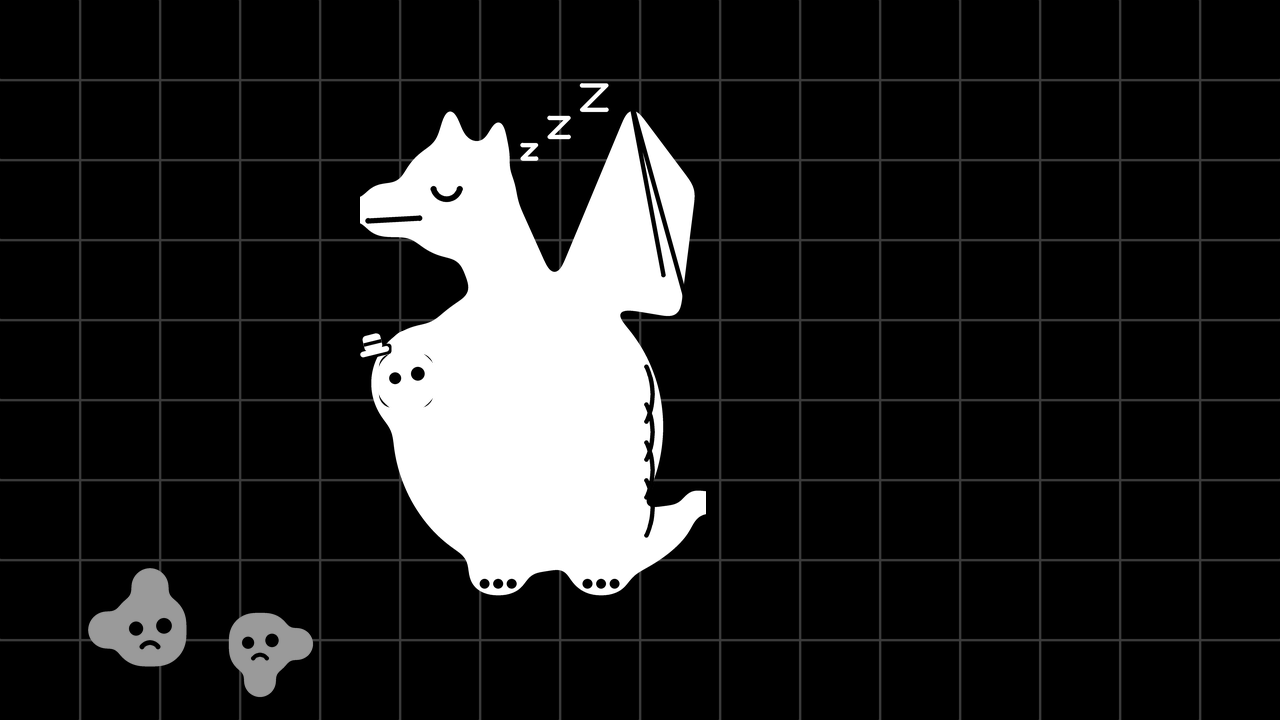
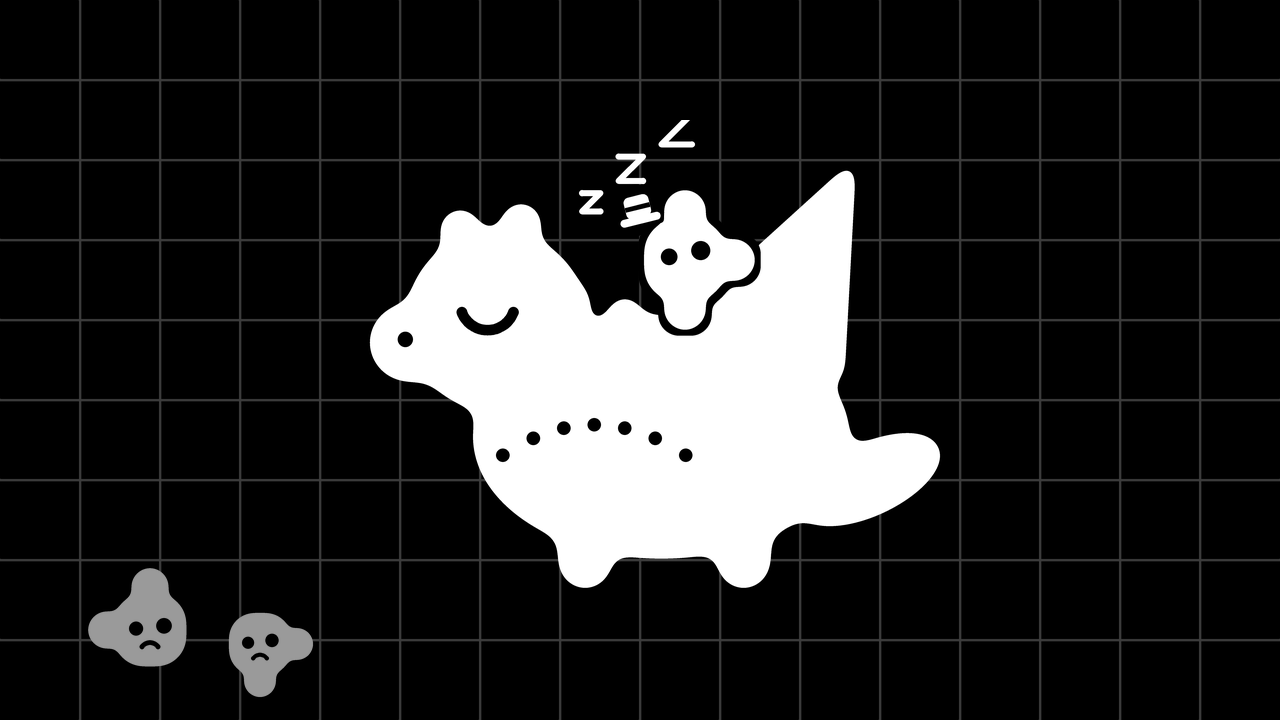
Small fix added

Changed region(s): [[0.2812, 0.0917, 0.75, 0.825]]

diff --git a/Tools/art_blob.py b/Tools/art_blob.py
@@ -204,27 +204,30 @@ def shard_img(px, i):
 
 # ---------------------------------------------------------------- dragon (128x192 tasarim uzayi, k kat)
 def dragon_img(kind, k=2.0, rider=None, hole=True):
-    """Ejderha omzunun uzerinden sola (oyuncuya) bakar; govdesi saga donuk, sirtindaki eyer sol kenarda (y 96..128).
-    rider: eyere oturacak RGBA (None = bos). hole: eyer yuvasi (siyah delik) cizilsin mi."""
+    """Ejderha 3/4 arkadan gorunur: govdesi saga donuk, SIRTI sola (oyuncuya) bakar, kafasi omzunun uzerinden
+    sola donmustur (agiz sol ustte, ates o yone cikar). Eyer sirtta, sol kenarda (y 96..128): siyah yuva + govdeyi
+    saran kolan. Kanat eyerin arkasindan sag uste acilir, sirt dikenleri boyun boyunca sol kenarda.
+    rider: eyere oturacak RGBA (sirt cizgisinin ustune biner). hole: eyer yuvasi cizilsin mi."""
     w, h = int(128 * k), int(192 * k)
     def T(x, y): return (x * k, y * k)
     body = Ink(w, h)
     body.ellipse(*T(62, 128), 50 * k, 54 * k)                 # govde
     body.circle(*T(26, 112), 22 * k)                          # sirt / eyer tumsegi (sol kenara tasar)
     body.poly([T(44, 86), T(74, 80), T(56, 40), T(30, 48)])   # boyun
-    body.circle(*T(36, 44), 22 * k)                           # kafa
+    body.circle(*T(36, 44), 22 * k)                           # kafa (omzunun uzerinden bakar)
     body.rrect(*T(0, 38), *T(30, 58), 9 * k)                  # burun (agiz sol kenarda)
     body.poly([T(27, 27), T(33, 6), T(41, 27)]); body.poly([T(43, 29), T(52, 10), T(56, 31)])   # boynuzlar
-    body.poly([T(70, 80), T(100, 8), T(124, 40), T(118, 88)]) # kanat (eyerin sag ustunde)
+    body.poly([T(40, 98), T(72, 10), T(120, 40), T(104, 98)]) # kanat: eyerin arkasindan sag uste
     body.ellipse(*T(100, 172), 26 * k, 10 * k, rot=-28)       # kuyruk
     body.circle(*T(124, 156), 5 * k)
     body.rrect(*T(40, 158), *T(62, 190), 8 * k); body.rrect(*T(78, 158), *T(100, 190), 8 * k)   # bacaklar
-    for cx, cy in ((34, 94), (44, 86), (58, 80)): body.circle(cx * k, cy * k, 5 * k)             # sirt dikenleri
+    for cx, cy in ((28, 70), (36, 59), (45, 49), (16, 134), (12, 148)): body.circle(cx * k, cy * k, 5 * k)   # sirt dikenleri (boyun + eyer alti)
     body.goo(2.6 * k)
     ink = Ink(w, h)
-    if hole: ink.rrect(*T(7, 101), *T(27, 121), 5 * k)         # eyer yuvasi
-    for x0, y0, x1, y1 in ((100, 8, 112, 72), (100, 8, 120, 80)): ink.line([T(x0, y0), T(x1, y1)], 1.6 * k)   # kanat kemikleri
-    for yy in (116, 130, 144, 158): ink.arc(*T(84, yy), 24 * k, -25, 25, 1.6 * k)                               # karin plakalari
+    ink.line([T(4, 118), T(60, 126), T(108, 112)], 3.2 * k)   # eyer kolani: govdeyi sarar
+    if hole and rider is None: ink.rrect(*T(7, 101), *T(27, 121), 5 * k)   # eyer yuvasi (bos eyer)
+    for x0, y0, x1, y1 in ((72, 10, 92, 90), (72, 10, 104, 84)): ink.line([T(x0, y0), T(x1, y1)], 1.6 * k)   # kanat kemikleri
+    for yy in (138, 152): ink.arc(*T(84, yy), 24 * k, -25, 25, 1.6 * k)                                      # karin plakalari (sag: on taraf)
     for fx in (46, 51, 56, 84, 89, 94): ink.circle(fx * k, 186 * k, 1.8 * k)                                     # parmaklar
     ink.line([T(3, 52), T(22, 51)], 2 * k)                                                                        # agiz
     if kind == 'awake':
@@ -240,7 +243,52 @@ def dragon_img(kind, k=2.0, rider=None, hole=True):
             z.line([T(zx, zy), T(zx + zs, zy), T(zx, zy + zs), T(zx + zs, zy + zs)], 1.6 * k)
         layers.append((z, W))
     if rider is not None:
-        layers.append((rider, 17 * k - rider.width / 2, 111 * k - rider.height / 2))
+        # hikaye resimlerinde binici boynun dibinde, sirtin ustunde oturur (yuva cizilmez; oyun ici yuva ayri).
+        # Beyaz binici beyaz govdeden ayrilsin diye altina siyah bir hale konur.
+        rx, ry = int(40 * k - rider.width / 2), int(80 * k - rider.height / 2)
+        halo = Image.new('L', (w, h), 0)
+        halo.paste(rider.split()[3].filter(ImageFilter.MaxFilter(int(2.2 * k) * 2 + 1)), (rx, ry))
+        layers.append((halo, K)); layers.append((rider, rx, ry))
+    return compose(w, h, layers)
+
+
+def dragon_side(kind, k=1.0, rider=None, seat=False, seat_rect=(108, 64, 130, 78)):
+    """Hikaye ekranlari icin yandan ejderha (prototipteki cizim): sola bakar, kafa solda, kanat sagda yukari,
+    kisa bacaklar, karin noktalari. 210x160 tasarim uzayi, k kat. rider: sirtina oturan RGBA (siyah haleyle
+    govdeden ayrilir). seat: bos eyer yuvasi (siyah) cizilsin mi."""
+    w, h = int(210 * k), int(160 * k)
+    def T(x, y): return (x * k, y * k)
+    body = Ink(w, h)
+    body.ellipse(*T(112, 104), 62 * k, 40 * k)                # govde
+    body.circle(*T(58, 66), 30 * k)                           # kafa
+    body.rrect(*T(16, 60), *T(60, 86), 13 * k)                # burun
+    body.poly([T(112, 70), T(176, 12), T(172, 86)])           # kanat
+    body.rrect(*T(78, 124), *T(96, 154), 9 * k); body.rrect(*T(130, 124), *T(148, 154), 9 * k)   # bacaklar
+    body.ellipse(*T(180, 118), 26 * k, 12 * k, rot=-25)       # kuyruk
+    for cx, cy, r in ((82, 60, 7), (100, 64, 6), (46, 36, 7), (66, 34, 7)): body.circle(cx * k, cy * k, r * k)   # sirt tumsekleri, kulaklar
+    body.goo(3 * k)
+    ink = Ink(w, h)
+    ink.circle(*T(28, 72), 2.5 * k)                           # burun deligi
+    for i in range(7):                                        # karin noktalari
+        t = i / 6; x = 60 + 60 * t; y = 110 - 10 * 4 * t * (1 - t)
+        ink.circle(x * k, y * k, 2.2 * k)
+    if kind == 'awake':
+        ink.circle(*T(52, 60), 4 * k); ink.line([T(42, 50), T(62, 54)], 2.6 * k)
+        ink.poly([T(18, 80), T(50, 80), T(34, 88)])
+    else:
+        ink.arc(*T(55, 60), 9 * k, 20, 160, 3.5 * k)
+    if seat and rider is None: ink.rrect(*T(seat_rect[0], seat_rect[1]), *T(seat_rect[2], seat_rect[3]), 5 * k)
+    layers = [(body, W), (ink, K)]
+    if kind == 'sleep':
+        z = Ink(w, h)
+        for (zx, zy, zs) in ((86, 24, 6), (98, 12, 8), (112, -2, 10)):
+            z.line([T(zx, zy), T(zx + zs, zy), T(zx, zy + zs), T(zx + zs, zy + zs)], 2 * k)
+        layers.append((z, W))
+    if rider is not None:
+        rx, ry = int(120 * k - rider.width / 2), int(46 * k - rider.height / 2)
+        halo = Image.new('L', (w, h), 0)
+        halo.paste(rider.split()[3].filter(ImageFilter.MaxFilter(int(2.2 * k) * 2 + 1)), (rx, ry))
+        layers.append((halo, K)); layers.append((rider, rx, ry))
     return compose(w, h, layers)
 
 
@@ -287,8 +335,12 @@ def make_common():
     save(piece_img('1001', PX, face='sad', fill=G), 'Common', 'lost_sad.png')
     save(piece_img('1001', PX, face='happy', fill=G), 'Common', 'lost_happy.png')
     save(yamali_img(PX), 'Common', 'yamali.png')
-    save(dragon_img('awake'), 'Common', 'dragon_awake.png')
-    save(dragon_img('sleep'), 'Common', 'dragon_sleep.png')
+    # oyun ici ejderha: yandan, 6x4 karo (384x256, PPU 64). Level 8'de dikdortgen 6 genis 4 yuksek; eyer karosu
+    # dikdortgenin (3,1) karosu = sirtin ustu. Agiz sol kenarda 1. satirda (ates oradan cikar).
+    for kind in ('awake', 'sleep'):
+        side = dragon_side(kind, 1.6, seat=True, seat_rect=(113, 67, 137, 76))
+        canvas_ = Image.new('RGBA', (384, 256), (0, 0, 0, 0)); canvas_.alpha_composite(side, (24, 0))
+        save(canvas_, 'Common', f'dragon_{kind}.png')
     closed, glow = seat_tiles()
     save(closed, 'Common', 'chest_closed.png'); save(glow, 'Common', 'chest_glow.png')
 
@@ -340,12 +392,13 @@ def box_img(px):
 
 
 def make_story():
-    kd = 300 * Z / 192
-    hero = rider(kd)
-    # baslik: uyuyan ejderha ve binicisi, yapboz izgarasi
-    save(scene([(dragon_img('sleep', kd, rider=hero), 220, 30)], grid=True), 'Story', 'title.png')
-    # 1: yapboz bitmek uzere, binici eksik (eyer bos)
-    save(scene([(dragon_img('sleep', kd), 150, 30), (piece_img('1110', 130 * Z, face='happy', hat=True), 460, 200)], grid=True), 'Story', 'intro_1.png')
+    ks = 400 * Z / 210                      # ejderha 400 birim genis
+    hero = piece_img('1110', int(52 * ks), hat=True)
+    yam = yamali_img(int(52 * ks))
+    # baslik: uyuyan ejderha, sirtinda binicisi
+    save(scene([(dragon_side('sleep', ks, rider=hero), 120, 40)], grid=True), 'Story', 'title.png')
+    # 1: yapboz bitmek uzere, eyer bos; binici kenarda bekliyor
+    save(scene([(dragon_side('sleep', ks, seat=True), 60, 50), (piece_img('1110', 110 * Z, face='happy', hat=True), 490, 190)], grid=True), 'Story', 'intro_1.png')
     # 2: Yamali kahramani masadan (eyerden) iter
     t = Ink(SW, SH); t.line([at(0, 262), at(400, 262)], 10 * Z); t.line([at(0, 300), at(400, 300)], 4 * Z)
     m = Ink(SW, SH)
@@ -353,22 +406,21 @@ def make_story():
     falling = piece_img('1110', 130 * Z, face='dead', hat=True).rotate(-35, resample=Image.BICUBIC, expand=True)
     save(scene([(t, W), (m, W), (yamali_img(150 * Z), 230, 118), (falling, 410, 190)]), 'Story', 'intro_2.png')
     # 3: resim tamam ama eyerde Yamali, ejderha uyandi
-    d = dragon_img('awake', kd, rider=yamali_img(int(42 * kd)))
     sp = Ink(SW, SH)
-    for x, y in ((120, 70), (540, 90), (130, 290), (530, 280)): sp.line([at(x - 9, y), at(x + 9, y)], 3 * Z); sp.line([at(x, y - 9), at(x, y + 9)], 3 * Z)
-    save(scene([(d, 220, 30), (sp, W)], grid=True), 'Story', 'intro_3.png')
+    for x, y in ((80, 60), (580, 80), (90, 300), (570, 290)): sp.line([at(x - 9, y), at(x + 9, y)], 3 * Z); sp.line([at(x, y - 9), at(x, y + 9)], 3 * Z)
+    save(scene([(dragon_side('awake', ks, rider=yam), 120, 40), (sp, W)], grid=True), 'Story', 'intro_3.png')
     # 4: kutunun dibi
     b = Ink(SW, SH); b.line([at(130, 40), at(130, 330), at(510, 330), at(510, 40)], 12 * Z); b.line([at(60, 40), at(130, 40)], 12 * Z); b.line([at(510, 40), at(580, 40)], 12 * Z)
     save(scene([(b, W), (piece_img('1000', 150 * Z, face='idle', hat=True), 245, 170)]), 'Story', 'intro_4.png')
-    # sonlar
-    ks = 260 * Z / 192
-    sleeping = dragon_img('sleep', ks, rider=rider(ks))
+    # sonlar: binici yerinde, ejderha uyuyor
+    ke = 320 * Z / 210
+    sleeping = dragon_side('sleep', ke, rider=piece_img('1110', int(52 * ke), hat=True))
     happy = piece_img('1001', 80 * Z, face='happy', fill=G)
-    save(scene([(sleeping, 60, 40), (bin_img(150 * Z), 440, 130), (yamali_img(90 * Z).rotate(160, resample=Image.BICUBIC, expand=True), 470, 90),
+    save(scene([(sleeping, 30, 60), (bin_img(150 * Z), 440, 130), (yamali_img(90 * Z).rotate(160, resample=Image.BICUBIC, expand=True), 470, 90),
                 (happy, 300, 270), (happy, 380, 262), (happy, 460, 272)], grid=True), 'Story', 'ending_t.png')
-    save(scene([(sleeping, 60, 40), (box_img(170 * Z), 430, 120), (yamali_img(80 * Z), 470, 110),
+    save(scene([(sleeping, 30, 60), (box_img(170 * Z), 430, 120), (yamali_img(80 * Z), 470, 110),
                 (happy, 300, 270), (happy, 380, 262), (happy, 460, 272)], grid=True), 'Story', 'ending_b.png')
-    save(scene([(sleeping, 180, 40), (piece_img('1001', 70 * Z, face='sad', fill=G), 40, 280), (piece_img('0110', 60 * Z, face='sad', fill=G), 100, 292)], grid=True), 'Story', 'ending_alone.png')
+    save(scene([(sleeping, 160, 60), (piece_img('1001', 70 * Z, face='sad', fill=G), 40, 280), (piece_img('0110', 60 * Z, face='sad', fill=G), 100, 292)], grid=True), 'Story', 'ending_alone.png')
     def dark_extra(px, oy):
         k = px / 100
         w = Ink(px, px); w.rrect(52 * k, 35 * k, 70 * k, 51 * k, 5 * k); w.line([(28 * k, 36 * k), (50 * k, 31 * k)], 3 * k)

diff --git a/Assets/Scripts/KayipParca/LevelManager.cs b/Assets/Scripts/KayipParca/LevelManager.cs
@@ -463,7 +463,8 @@ namespace KayipParca
             {
                 var r = data.dragonRect;
                 dragon = MakeSprite("Ejderha", "Common/dragon_awake", new Vector3(r.x + r.width / 2f, -r.y + 1 - r.height / 2f, 0), Color.white, 4);
-                dragon.transform.localScale = new Vector3(r.width / 4f, r.height / 6f, 1);
+                var dsz = dragon.sprite ? dragon.sprite.bounds.size : new Vector3(6, 4, 1);   // sprite dikdortgeni doldurur
+                dragon.transform.localScale = new Vector3(r.width / dsz.x, r.height / dsz.y, 1);
                 chestCover = MakeSprite("GogusKapagi", "Common/chest_closed", World(data.yamali), Color.white, 5);
                 chestGlow = MakeSprite("GogusIsik", "Common/chest_glow", World(data.yamali), Color.white, 6);
                 heartSlot = data.goals.TryGetValue('Y', out var hreq) ? MakeSprite("KalpYuvasi", $"Slots/slot_{hreq}", World(data.yamali), SlotColor, 5) : null;
